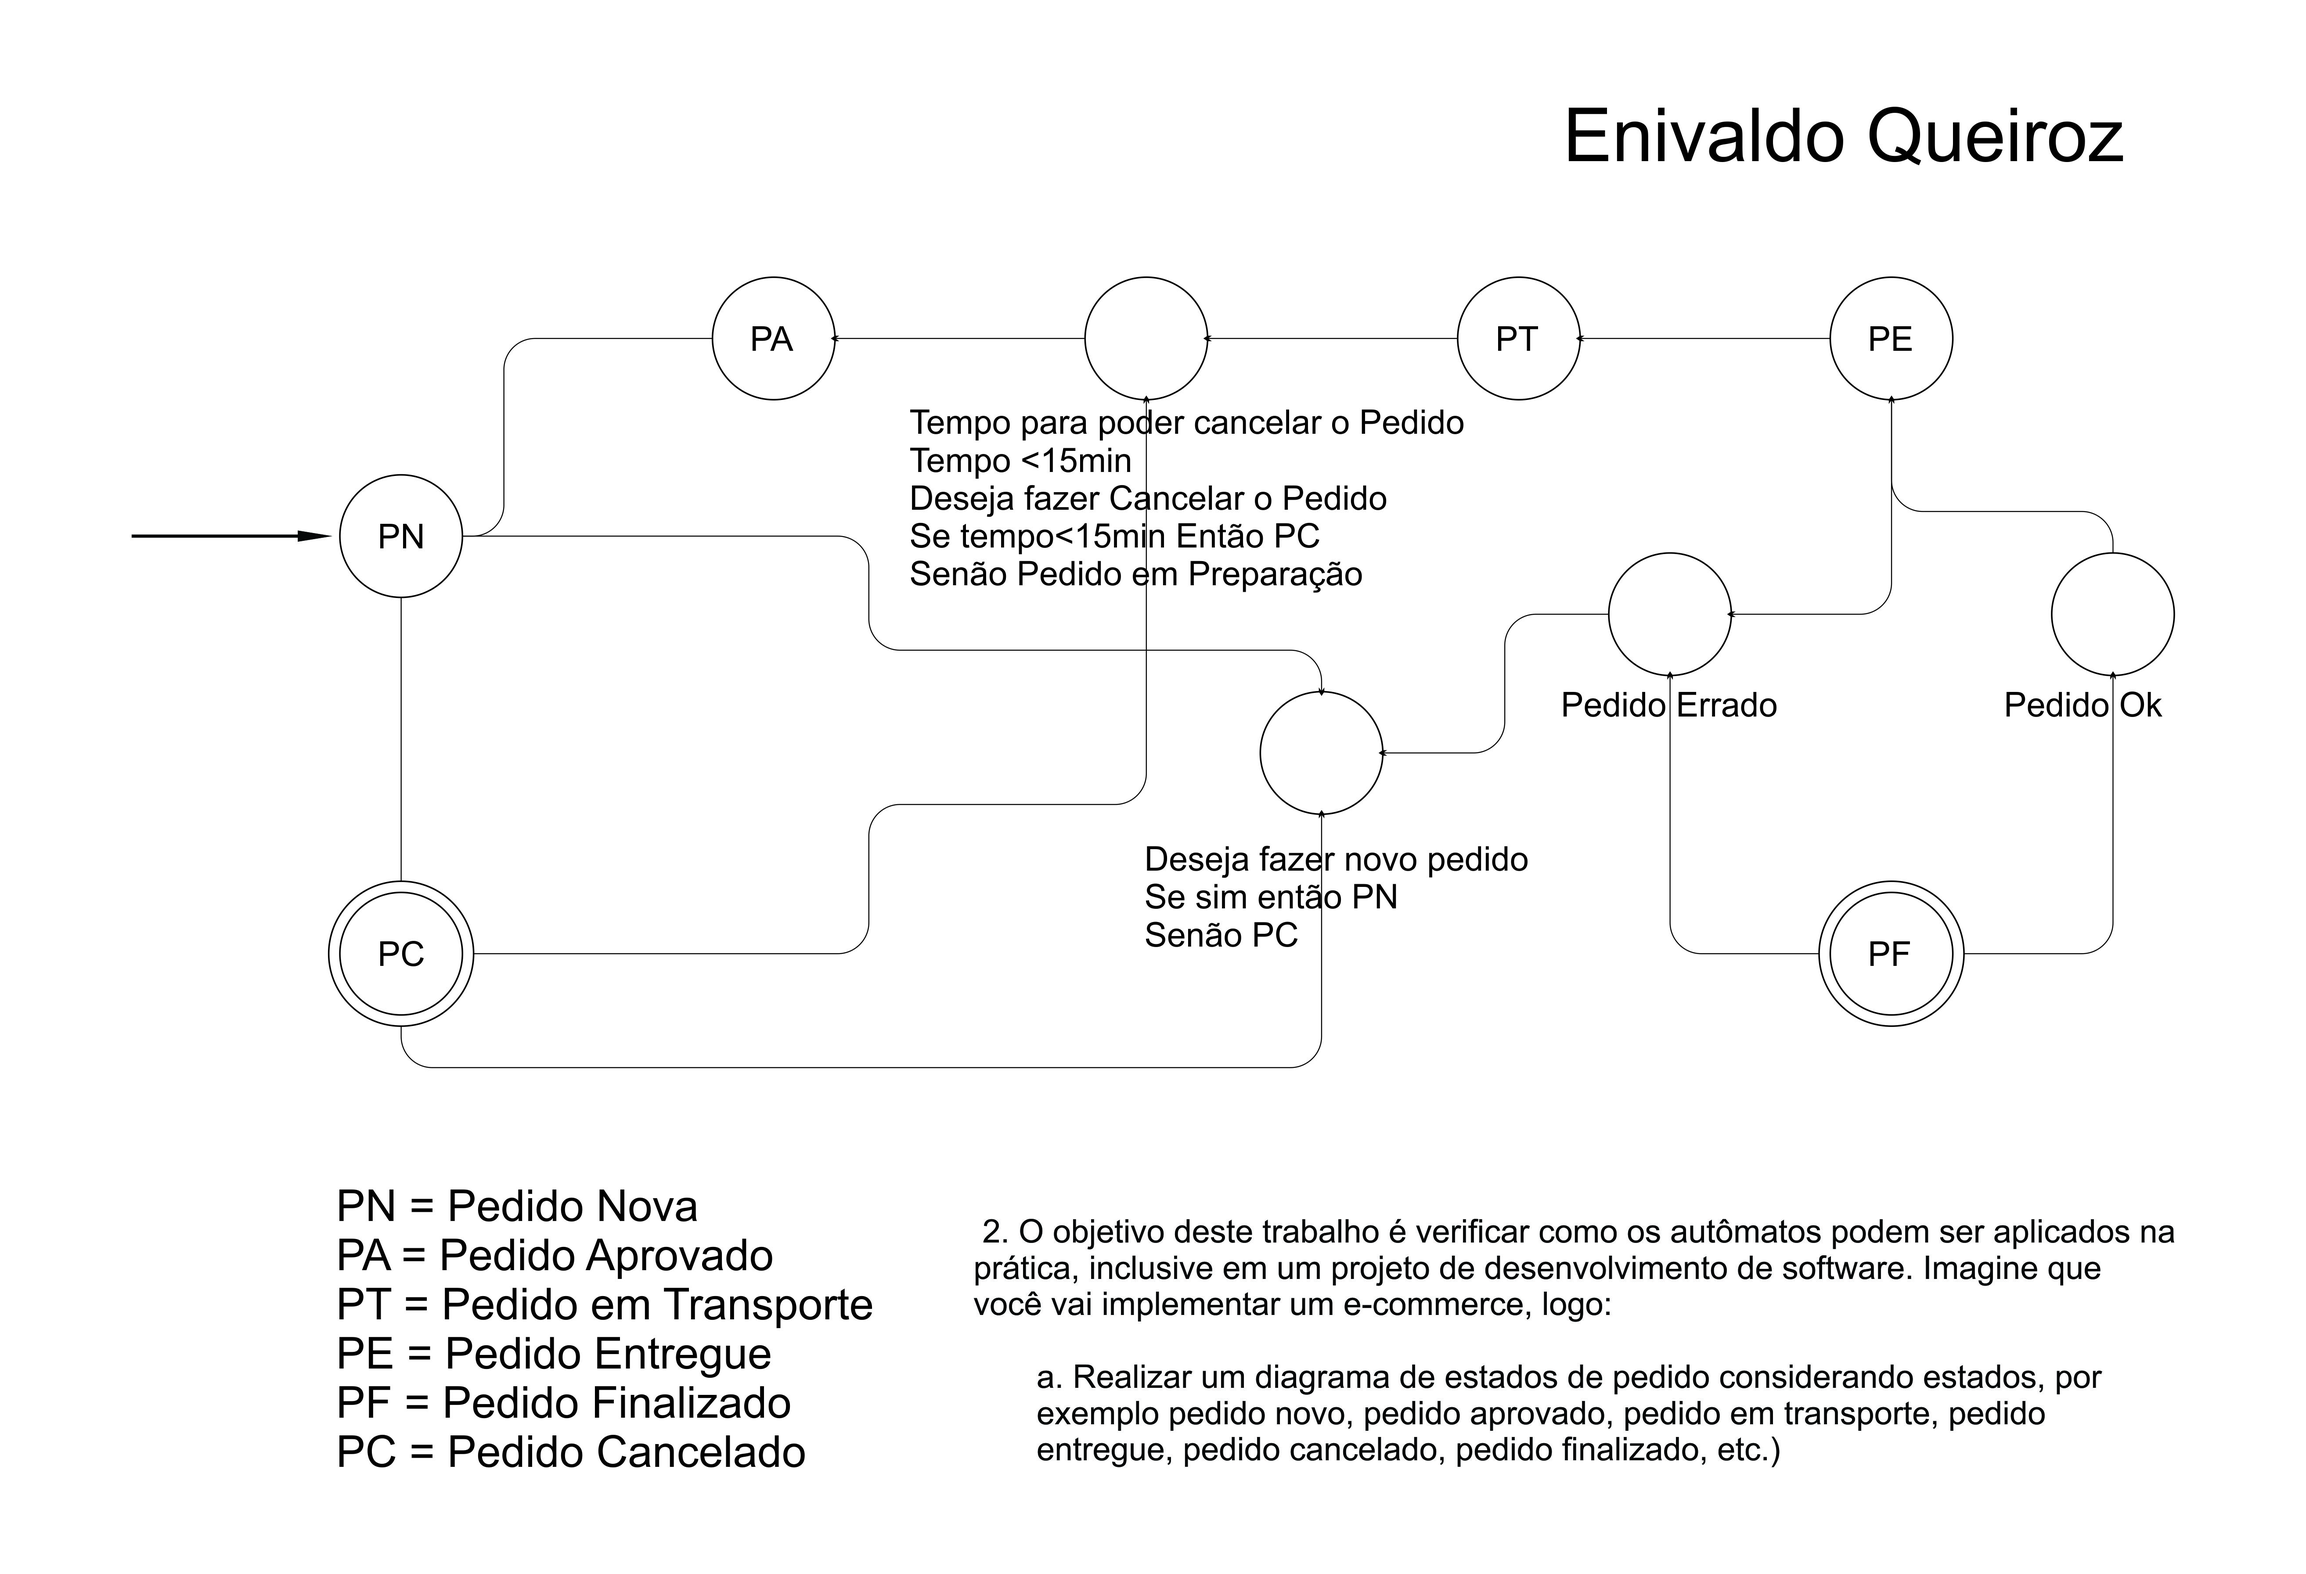
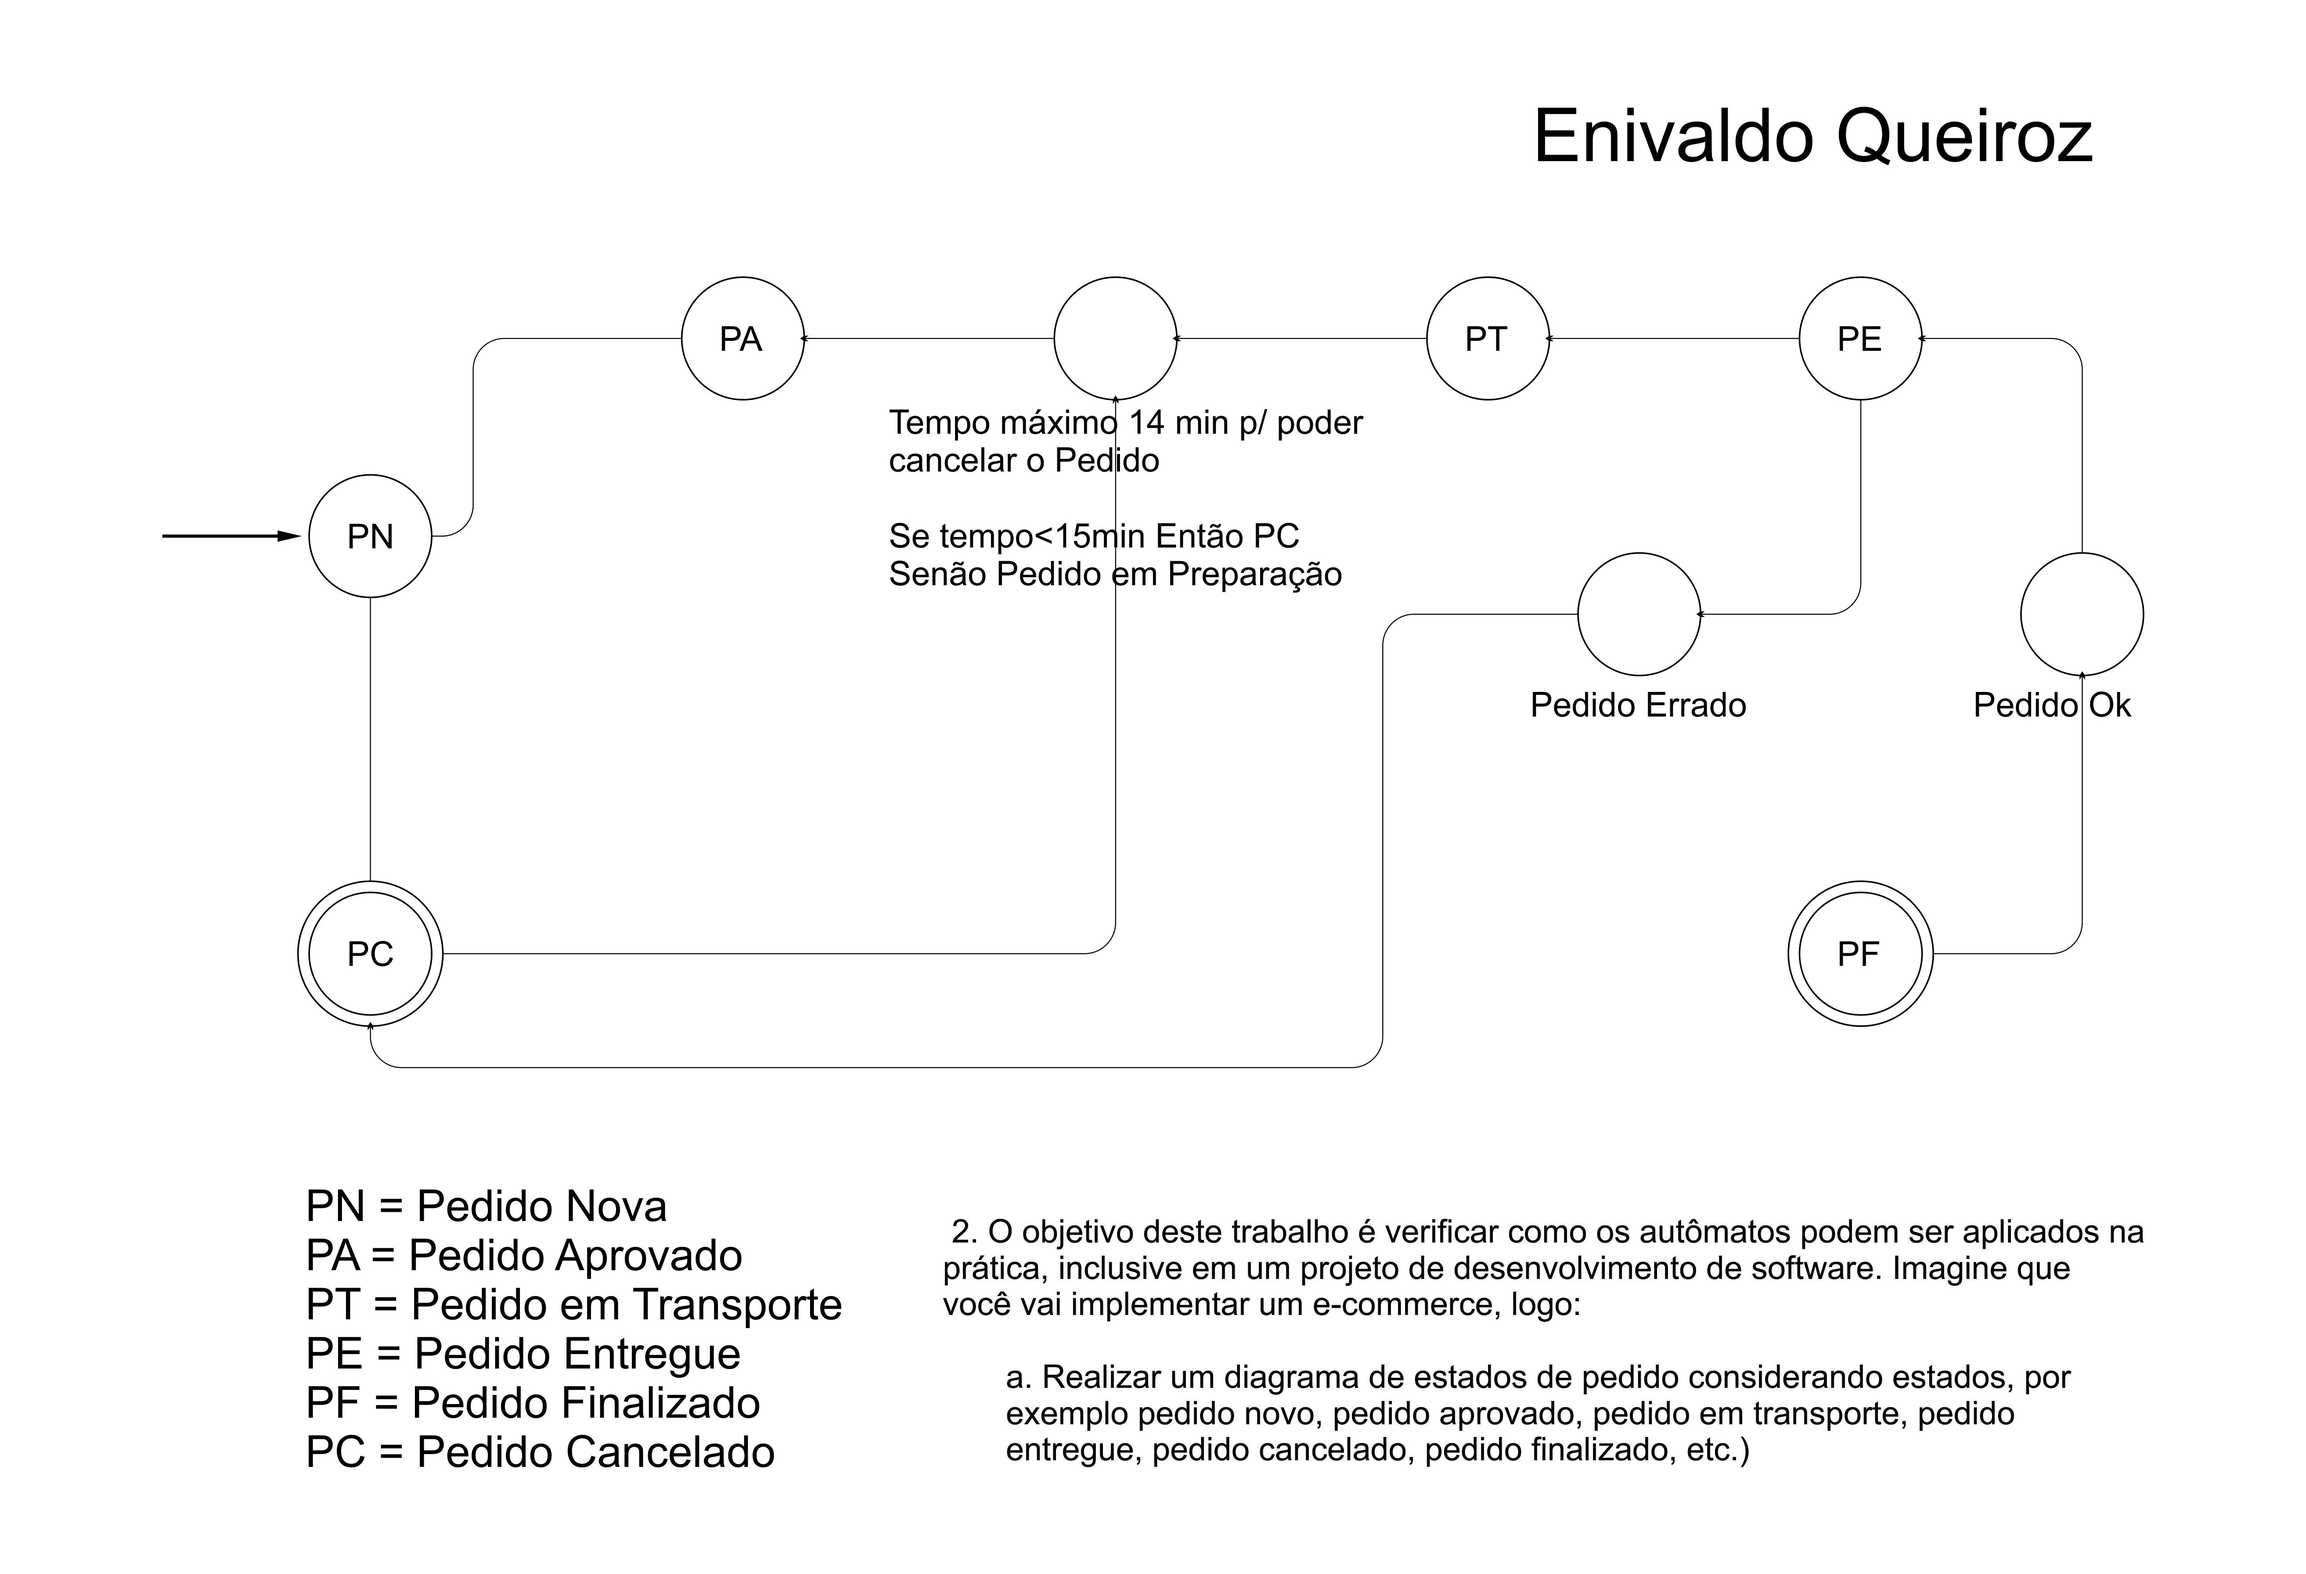
Realizando a correção do diagrama de estados, implementação utilizando o padrão de projetos State com a linguagem Java e realizado os teste de fluxo definido pelo diagrama, aceitando e rejeitando simulações de pedido

diff --git a/src/e_commerce/PedidoEmTransporte.java b/src/e_commerce/PedidoEmTransporte.java
@@ -9,7 +9,7 @@ public class PedidoEmTransporte implements PedidoState {
 	}
 
 	
-	public PedidoState fazerAprovacaoDePedido() {
+	public PedidoState fazerAprovacaoDePedido(int op) {
 		System.out.println("Pedido Aprovado");
 		return new PedidoAprovado();
 	}
@@ -22,7 +22,7 @@ public class PedidoEmTransporte implements PedidoState {
 
 	
 	public PedidoState fazerEntregaDePedito() {
-		System.out.println("Pedido Entregue");
+		
 		return new PedidoEntregue();
 	}
 
@@ -38,9 +38,19 @@ public class PedidoEmTransporte implements PedidoState {
 		return null;
 	}
 	
-	public PedidoState verificarPedidoEntregue() {
-		System.out.println("Pedido OK");
+	public PedidoState verificarPedidoEntregue(int op) {
+		
+		if(op == 1) {
+			System.out.println("Pedido Entregue Erro");
+			return new PedidoCancelado();
+		}else if (op == 2)	{
+			System.out.println("Pedido Entregue");
+		}
+		
 		return new PeditoFinalizado();
 	}
 
+
+	
+	
 }

diff --git a/src/e_commerce/PedidoCancelado.java b/src/e_commerce/PedidoCancelado.java
@@ -9,7 +9,7 @@ public class PedidoCancelado implements PedidoState {
 	}
 
 	
-	public PedidoState fazerAprovacaoDePedido() {
+	public PedidoState fazerAprovacaoDePedido(int temp) {
 		
 		return null;
 	}
@@ -38,9 +38,18 @@ public class PedidoCancelado implements PedidoState {
 		return null;
 	}
 	
-	public PedidoState verificarPedidoEntregue() {
-		System.out.println("Pedido OK");
+	public PedidoState verificarPedidoEntregue(int op) {
+		if(op == 1) {
+			System.out.println("Pedido Entregue Erro");
+			System.out.println("Pedido Cancelado");
+			return new PedidoCancelado();
+		}else if (op == 2)	{
+			System.out.println("Pedido Entregue");
+		}
+		
 		return new PeditoFinalizado();
 	}
+
+
 
 }

diff --git a/src/e_commerce/Pedido.java b/src/e_commerce/Pedido.java
@@ -14,8 +14,8 @@ public class Pedido {
 		estado = estado.iniciarPedidoNovo();
 	}
 	
-	public void fazerAprovacaoDePedido() {
-		estado = estado.fazerAprovacaoDePedido();
+	public void fazerAprovacaoDePedido(int op) {
+		estado = estado.fazerAprovacaoDePedido(op);
 	}
 	
 	public void informarPedidoEmTransporte() {
@@ -26,8 +26,8 @@ public class Pedido {
 		estado = estado.fazerEntregaDePedito();
 	}
 	
-	public void verificarPedidoEntregue() {
-		estado = estado.verificarPedidoEntregue();
+	public void verificarPedidoEntregue(int op) {
+		estado = estado.verificarPedidoEntregue(op);
 	}
 	
 	public void cancelarPedido() {

diff --git a/src/e_commerce/PedidoState.java b/src/e_commerce/PedidoState.java
@@ -4,12 +4,13 @@ public interface PedidoState {
 	
 	//Metodos de coportamento do Estado de pedido
 	PedidoState iniciarPedidoNovo();
-	PedidoState fazerAprovacaoDePedido();
+	PedidoState fazerAprovacaoDePedido(int op);
 	PedidoState informarPedidoEmTransporte();
 	PedidoState fazerEntregaDePedito();
 	PedidoState cancelarPedido();
 	PedidoState finalizarPedido();
-	PedidoState verificarPedidoEntregue(); 
+	PedidoState verificarPedidoEntregue(int op);
+	
 	
 	
 
